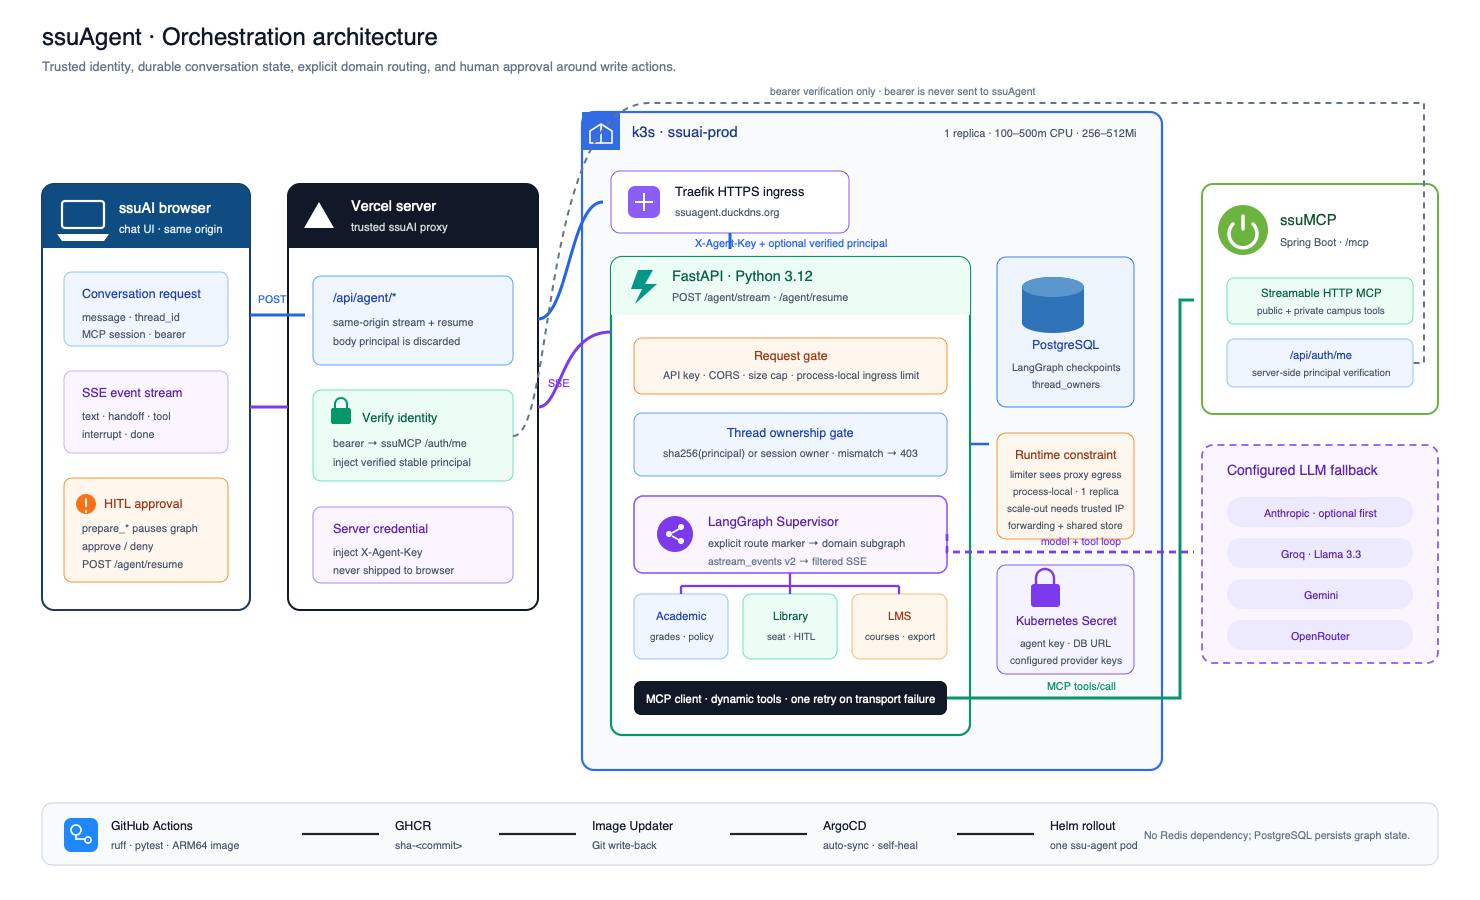
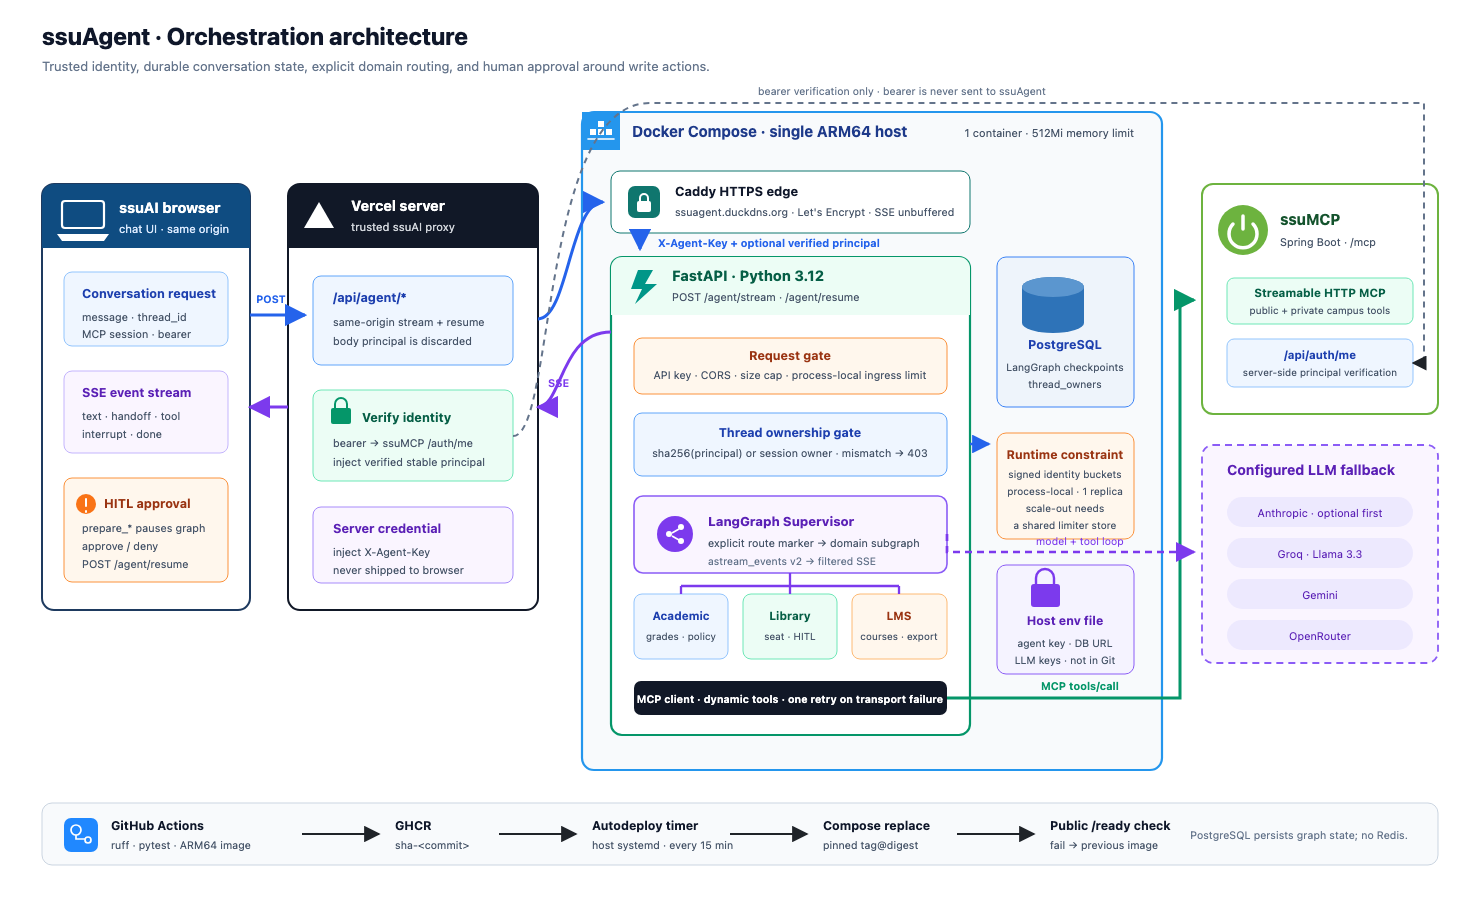
docs: 아키텍처 다이어그램을 Docker Compose + Caddy 현재 경로로 갱신하고 README 배포 문서 링크의 GitOps 표현 제거 (#128)

diff --git a/README.en.md b/README.en.md
@@ -129,7 +129,7 @@ evidence boundary.
 - [Documentation map](docs/README.md)
 - [Architecture and trust boundaries](docs/architecture.md) (Korean)
 - [Configuration and environment variables](docs/configuration.md) (Korean)
-- [GitOps deployment and operational verification](docs/deploy.md) (Korean)
+- [Docker Compose deployment and operational verification](docs/deploy.md) (Korean)
 - [Operational incident records](docs/troubleshooting.md) (Korean)
 - [ADR index](docs/adr/README.md) (Korean)
 

diff --git a/README.md b/README.md
@@ -124,7 +124,7 @@ Supervisor 라우팅 계약은 `evals/routing_contract.v1.json`의 버전 고정
 - [문서 지도](docs/README.md)
 - [아키텍처와 신뢰 경계](docs/architecture.md)
 - [설정과 환경 변수](docs/configuration.md)
-- [GitOps 배포와 운영 검증](docs/deploy.md)
+- [Docker Compose 배포와 운영 검증](docs/deploy.md)
 - [운영 장애 기록](docs/troubleshooting.md)
 - [ADR 색인](docs/adr/README.md)
 
